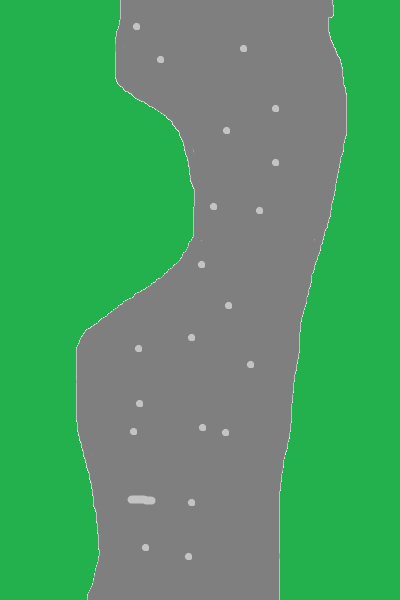
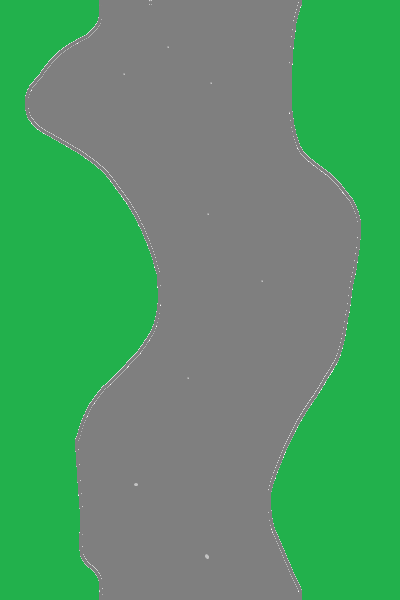
added the game

diff --git a/race.py b/race.py
@@ -13,7 +13,7 @@ pygame.display.set_caption("Gonki")
 pygame.display.flip()
 clock = pygame.time.Clock()
 score = 0
-track1 = pygame.image.load("track1.png")
+track = pygame.image.load("track1.png")
 trackY = 0
 
 #fonts
@@ -24,7 +24,6 @@ dead = font.render("GAME OVER", True, "Red")
 #car
 class Player(pygame.sprite.Sprite):
     def __init__(self):
-        # i quite literally have no idea wtf this is
         super().__init__()
         self.image = pygame.image.load("car.png")
         self.rect = self.image.get_rect()
@@ -36,12 +35,12 @@ class Player(pygame.sprite.Sprite):
         # to make sure it is in the window still. 
         if self.rect.left > 0:
             if keys[pygame.K_a]:
-                    self.rect.move_ip(-4, 0)
+                    self.rect.move_ip(-3, 0)
         # same thing but it's with the right corner
         # of the rectangle
         if self.rect.right < 400:
             if keys[pygame.K_d]:
-                    self.rect.move_ip(4, 0)
+                    self.rect.move_ip(3, 0)
 #rocks
 class Rocks(pygame.sprite.Sprite):
     def __init__(self):
@@ -51,7 +50,7 @@ class Rocks(pygame.sprite.Sprite):
         self.rect.center = (random.randint(60, 600), (0 - random.randint(300,900)))
 
     def move(self):
-        self.rect.move_ip(0, 1)
+        self.rect.move_ip(0, speed)
         if (self.rect.top > 600):
             self.rect.top = 0
             self.rect.center = (random.randint(30, 200), 0)
@@ -68,19 +67,68 @@ obstacles.add(rock)
 all_sprites = pygame.sprite.Group()
 all_sprites.add(user)
 all_sprites.add(rock)
+def nextTrack():
+    rand = random.randint(1,10)
+    #i wish python had switches. idk maybe it does, but not like c# :(
+    if(rand == 1):
+        nextT = pygame.image.load("track1.png")
+    if(rand == 2):
+        nextT = pygame.image.load("track2.png")
+    if(rand == 3):
+        nextT = pygame.image.load("track3.png")
+    if(rand == 4):
+        nextT = pygame.image.load("track4.png")
+    if(rand == 5):
+        nextT = pygame.image.load("track5.png")
+    if(rand == 6):
+        nextT = pygame.image.load("track6.png")
+    if(rand == 7):
+        nextT = pygame.image.load("track7.png")
+    if(rand == 8):
+        nextT = pygame.image.load("track8.png")
+    if(rand == 9):
+        nextT = pygame.image.load("track9.png")
+    if(rand == 10):
+        nextT = pygame.image.load("track10.png")
+    return nextT
+speed = 1
 def scrollBackground():
     global trackY
-    trackY += 1
+    trackY += speed
+    screen.blit(track, (0,trackY))
+    try:
+        screen.blit(nextT, (0,trackY - 600)) 
+    except:
+        pass
+    return trackY
+first = True
+scoreFactor = 1
 #main loop
 running = True
-while running:
-    scrollBackground()
-    leaderboard = subFont.render(str(score), True, "Black")
-    screen.blit(leaderboard, (10, 10))
+while running:  
     clock.tick(320)
-    score += 1
+    try:
+        pixel_col = pygame.Surface.get_at(screen, (user.rect.right, 500))
+    except:
+        pass
+    #print(pixel_col)
+    if pixel_col == (34, 177, 76, 255):
+        print("SLOWED")
+        scoreFactor = 0
+    else:
+        scoreFactor = 1
+    score += round((speed * scoreFactor), 1)
     screen.fill((0,0,0))
-    screen.blit(track1, (0,trackY)) 
+    scrollBackground()
+    if ((trackY) > 600 or first == True):
+        first = False
+        try:
+            track = nextT
+        except:
+            pass
+        speed += 0.1
+        nextT = nextTrack()   
+        trackY = 0
     for event in pygame.event.get():   
         if event.type == pygame.QUIT:
             running = False   
@@ -89,7 +137,6 @@ while running:
     for entity in all_sprites:
             screen.blit(entity.image, entity.rect)
             entity.move()
-
     # if collision occurs with the user and obstacle
     if pygame.sprite.spritecollideany(user, obstacles):
           screen.fill("Black")
@@ -99,5 +146,9 @@ while running:
                 entity.kill() 
           time.sleep(2)
           running = False
-          sys.exit()            
+          sys.exit() 
+    leaderboard = subFont.render("Score: " + str(score), True, "Black")
+    speedL = subFont.render("Speed: " + str(round(speed, 1)), True, "Black")
+    screen.blit(leaderboard, (10, 10))  
+    screen.blit(speedL, (10, 20))         
     pygame.display.update()
